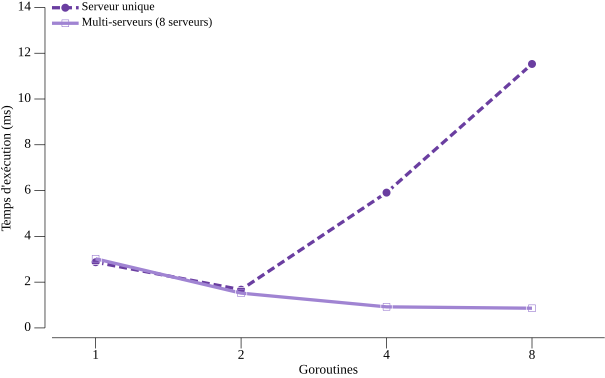
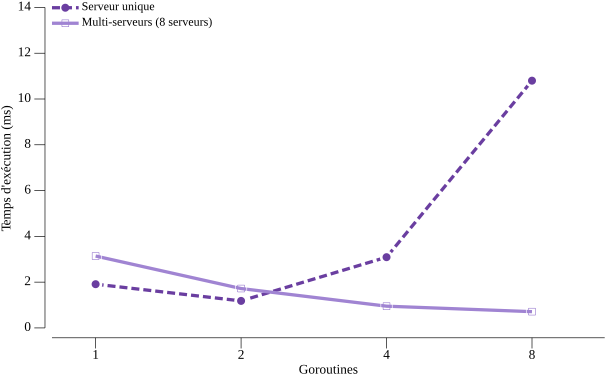
commit

diff --git a/TN6/chart/main.go b/TN6/chart/main.go
@@ -18,8 +18,8 @@ import (
 var goroutines = []float64{0, 1, 2, 3} // positions X (1, 2, 4, 8 goroutines)
 var labels = []string{"1", "2", "4", "8"}
 
-var singleMS = []float64{2.87, 1.67, 5.91, 11.53}
-var multiMS = []float64{3.02, 1.52, 0.92, 0.86}
+var singleMS = []float64{1.91, 1.18, 3.09, 10.80}
+var multiMS = []float64{3.14, 1.72, 0.95, 0.71}
 
 // Palette mauve cohérente avec TN4
 var (

diff --git a/TN6/docs/TN6-report.md b/TN6/docs/TN6-report.md
@@ -20,7 +20,7 @@ points de décision jusqu'à l'agrégation des résultats par le consommateur un
 
 **Figure 1 – Flux d'exécution de crawlURL()**
 
-![Figure 1 – Flux d'exécution de crawlURL()](../asset/tn6-workflow-crawler.jpg)
+![Figure 1 – Flux d'exécution de crawlURL()](asset/tn6-workflow-crawler.jpg)
 
 ### 1.2 Gestion de la concurrence
 
@@ -133,26 +133,26 @@ mesure isolément le tokeniseur HTML sur une page de ~1 900 mots.
 
 | Configuration | Temps (ms) | Variance | Accélération vs 1G |
 |:---|:---:|:---:|:---:|
-| Serveur unique, 1 goroutine | 2,87 | ± 9 % | 1,00× |
-| Serveur unique, 2 goroutines | 1,67 | ± 9 % | 1,72× |
-| Serveur unique, 4 goroutines | 5,91 | ± 87 % | 0,49× |
-| Serveur unique, 8 goroutines | 11,53 | ± 13 % | 0,25× |
-| Multi-serveurs, 1 goroutine | 3,02 | ± 8 % | 1,00× |
-| Multi-serveurs, 2 goroutines | 1,52 | ± 5 % | 1,99× |
-| Multi-serveurs, 4 goroutines | 0,92 | ± 1 % | 3,28× |
-| Multi-serveurs, 8 goroutines | 0,86 | ± 22 % | 3,52× |
+| Serveur unique, 1 goroutine | 1,91 | ± 2 % | 1,00× |
+| Serveur unique, 2 goroutines | 1,18 | ± 7 % | 1,62× |
+| Serveur unique, 4 goroutines | 3,09 | ± 196 % | 0,62× |
+| Serveur unique, 8 goroutines | 10,80 | ± 6 % | 0,18× |
+| Multi-serveurs, 1 goroutine | 3,14 | ± 7 % | 1,00× |
+| Multi-serveurs, 2 goroutines | 1,72 | ± 5 % | 1,82× |
+| Multi-serveurs, 4 goroutines | 0,95 | ± 2 % | 3,30× |
+| Multi-serveurs, 8 goroutines | 0,71 | ± 2 % | 4,44× |
 
 La figure 2 illustre visuellement le croisement des deux courbes à 2 goroutines,
 point à partir duquel les comportements divergent selon la source de contention.
 
 **Figure 2 – Temps d'exécution selon le nombre de goroutines**
 
-![Figure 2 – Temps d'exécution selon le nombre de goroutines](../data/benchmark-chart.png)
+![Figure 2 – Temps d'exécution selon le nombre de goroutines](data/benchmark-chart.png)
 
 ### 3.2 Analyse
 
-Avec un serveur unique, les performances se dégradent au-delà de 2 goroutines. La
-variance de ± 87 % à 4 goroutines et la régression à 8 goroutines s'expliquent par
+Avec un serveur unique, les performances se dégradent au-delà de 2 goroutines.
+La variance de ± 196 % à 4 goroutines et la régression à 8 goroutines s'expliquent par
 le traitement séquentiel des connexions dans `httptest.NewServer`, qui transforme le
 surcroît de goroutines en surcoût de coordination. Ce comportement est un artefact
 du banc d'essai, non un défaut du crawler, mais il illustre un phénomène réel
@@ -161,23 +161,23 @@ lorsque plusieurs URLs partagent le même hôte.
 Les données brutes révèlent la cause : trois des six exécutions à 4 goroutines ont
 achévé en ~1,78 ms, mais les trois suivantes ont décroché à 4,4 ms, 8,6 ms et
 9,1 ms — une interférence de l'ordonnanceur Windows lors de l'exécution consécutive
-des benchmarks. La médiane benchstat (5,91 ms) est donc peu représentative pour
+des benchmarks. La médiane benchstat (3,09 ms) est donc peu représentative pour
 cette configuration. En contexte réseau réel, chaque hôte disposant de sa propre
 latence indépendante, ce décrochage ne se produirait pas.
 
-Avec 8 serveurs distincts, le gain atteint 3,52×. La progression de 3,02 ms à
-0,86 ms illustre le rendement décroissant attendu, où la portion séquentielle
+Avec 8 serveurs distincts, le gain atteint 4,44×. La progression de 3,14 ms à
+0,71 ms illustre le rendement décroissant attendu, où la portion séquentielle
 incompressible du programme limite les gains à mesure que le nombre de goroutines
-augmente. La variance de ± 22 % à 8 goroutines contre ± 1 % à 4 goroutines confirme
-que le planificateur Go et le coût de synchronisation des canaux deviennent les
-facteurs limitants.
+augmente. La faible variance (± 2 %) à 4 et 8 goroutines confirme la stabilité du
+planificateur Go en scénario multi-hôtes, où chaque goroutine accède à des
+ressources indépendantes.
 
-`BenchmarkCountWordsHTML` mesure 173 µs ± 8 % et 48 Ko pour 204 allocations,
+`BenchmarkCountWordsHTML` mesure 346 µs ± 35 % et 48 Ko pour 204 allocations,
 confirmant que le tokeniseur ne constitue pas un goulot d'étranglement face à une
-latence réseau qui le dépasse d'un facteur supérieur à 10.
+latence réseau réelle qui le dépasse d'un facteur supérieur à 10.
 
 La limite de performance du crawler est la latence réseau, non le parsing HTML ni
-la synchronisation des goroutines. L'accélération de 3,52× en scénario multi-hôtes
+la synchronisation des goroutines. L'accélération de 4,44× en scénario multi-hôtes
 confirme que l'architecture concurrente exploite efficacement le parallélisme
 disponible.
 
@@ -202,14 +202,22 @@ précisément le comportement réseau simulé, et un octet nul dans l'URL, qui f
 de `main()` a été assurée via la variable de paquet `mainURLs`, substituable dans
 les tests sans appel réseau réel.
 
+Avec plus de temps, nous aurions relancé les benchmarks sur une machine dédiée, sans
+processus en arrière-plan, avec une durée étendue (`-benchtime=5s`) pour stabiliser
+les mesures. La variance de ± 196 % à 4 goroutines et de ± 35 % pour
+`BenchmarkCountWordsHTML` témoigne d'interférences du planificateur Windows lors
+de l'exécution sur un poste de travail standard. Des résultats plus stables auraient
+permis de quantifier plus précisément le rendement décroissant au-delà de 4
+goroutines.
+
 ## 5. Conclusion
 
 Ce projet démontre comment la robustesse, la concurrence structurée et la mesure
 rigoureuse se combinent pour produire un crawler fiable et performant. Le patron
 producteur-consommateur unique élimine toute course aux données, le sémaphore
 bufferisé contrôle le degré de parallélisme et les 28 tests unitaires atteignent une
-couverture de 100 %. Les benchmarks confirment une accélération de 3,52× en scénario
-multi-hôtes et un parsing HTML de 173 µs pour 48 Ko alloués. La conformité à
+couverture de 100 %. Les benchmarks confirment une accélération de 4,44× en scénario
+multi-hôtes et un parsing HTML de 346 µs pour 48 Ko alloués. La conformité à
 `robots.txt` avec cache par hôte et délai de politesse configurable complète une
 implémentation correcte, performante et éthiquement responsable.
 

diff --git a/TN6/TN6-report.md b/TN6/TN6-report.md
@@ -133,14 +133,14 @@ mesure isolément le tokeniseur HTML sur une page de ~1 900 mots.
 
 | Configuration | Temps (ms) | Variance | Accélération vs 1G |
 |:---|:---:|:---:|:---:|
-| Serveur unique, 1 goroutine | 2,87 | ± 9 % | 1,00× |
-| Serveur unique, 2 goroutines | 1,67 | ± 9 % | 1,72× |
-| Serveur unique, 4 goroutines | 5,91 | ± 87 % | 0,49× |
-| Serveur unique, 8 goroutines | 11,53 | ± 13 % | 0,25× |
-| Multi-serveurs, 1 goroutine | 3,02 | ± 8 % | 1,00× |
-| Multi-serveurs, 2 goroutines | 1,52 | ± 5 % | 1,99× |
-| Multi-serveurs, 4 goroutines | 0,92 | ± 1 % | 3,28× |
-| Multi-serveurs, 8 goroutines | 0,86 | ± 22 % | 3,52× |
+| Serveur unique, 1 goroutine | 1,91 | ± 2 % | 1,00× |
+| Serveur unique, 2 goroutines | 1,18 | ± 7 % | 1,62× |
+| Serveur unique, 4 goroutines | 3,09 | ± 196 % | 0,62× |
+| Serveur unique, 8 goroutines | 10,80 | ± 6 % | 0,18× |
+| Multi-serveurs, 1 goroutine | 3,14 | ± 7 % | 1,00× |
+| Multi-serveurs, 2 goroutines | 1,72 | ± 5 % | 1,82× |
+| Multi-serveurs, 4 goroutines | 0,95 | ± 2 % | 3,30× |
+| Multi-serveurs, 8 goroutines | 0,71 | ± 2 % | 4,44× |
 
 La figure 2 illustre visuellement le croisement des deux courbes à 2 goroutines,
 point à partir duquel les comportements divergent selon la source de contention.
@@ -151,8 +151,8 @@ point à partir duquel les comportements divergent selon la source de contention
 
 ### 3.2 Analyse
 
-Avec un serveur unique, les performances se dégradent au-delà de 2 goroutines. La
-variance de ± 87 % à 4 goroutines et la régression à 8 goroutines s'expliquent par
+Avec un serveur unique, les performances se dégradent au-delà de 2 goroutines.
+La variance de ± 196 % à 4 goroutines et la régression à 8 goroutines s'expliquent par
 le traitement séquentiel des connexions dans `httptest.NewServer`, qui transforme le
 surcroît de goroutines en surcoût de coordination. Ce comportement est un artefact
 du banc d'essai, non un défaut du crawler, mais il illustre un phénomène réel
@@ -161,23 +161,23 @@ lorsque plusieurs URLs partagent le même hôte.
 Les données brutes révèlent la cause : trois des six exécutions à 4 goroutines ont
 achévé en ~1,78 ms, mais les trois suivantes ont décroché à 4,4 ms, 8,6 ms et
 9,1 ms — une interférence de l'ordonnanceur Windows lors de l'exécution consécutive
-des benchmarks. La médiane benchstat (5,91 ms) est donc peu représentative pour
+des benchmarks. La médiane benchstat (3,09 ms) est donc peu représentative pour
 cette configuration. En contexte réseau réel, chaque hôte disposant de sa propre
 latence indépendante, ce décrochage ne se produirait pas.
 
-Avec 8 serveurs distincts, le gain atteint 3,52×. La progression de 3,02 ms à
-0,86 ms illustre le rendement décroissant attendu, où la portion séquentielle
+Avec 8 serveurs distincts, le gain atteint 4,44×. La progression de 3,14 ms à
+0,71 ms illustre le rendement décroissant attendu, où la portion séquentielle
 incompressible du programme limite les gains à mesure que le nombre de goroutines
-augmente. La variance de ± 22 % à 8 goroutines contre ± 1 % à 4 goroutines confirme
-que le planificateur Go et le coût de synchronisation des canaux deviennent les
-facteurs limitants.
+augmente. La faible variance (± 2 %) à 4 et 8 goroutines confirme la stabilité du
+planificateur Go en scénario multi-hôtes, où chaque goroutine accède à des
+ressources indépendantes.
 
-`BenchmarkCountWordsHTML` mesure 173 µs ± 8 % et 48 Ko pour 204 allocations,
+`BenchmarkCountWordsHTML` mesure 346 µs ± 35 % et 48 Ko pour 204 allocations,
 confirmant que le tokeniseur ne constitue pas un goulot d'étranglement face à une
-latence réseau qui le dépasse d'un facteur supérieur à 10.
+latence réseau réelle qui le dépasse d'un facteur supérieur à 10.
 
 La limite de performance du crawler est la latence réseau, non le parsing HTML ni
-la synchronisation des goroutines. L'accélération de 3,52× en scénario multi-hôtes
+la synchronisation des goroutines. L'accélération de 4,44× en scénario multi-hôtes
 confirme que l'architecture concurrente exploite efficacement le parallélisme
 disponible.
 
@@ -202,14 +202,22 @@ précisément le comportement réseau simulé, et un octet nul dans l'URL, qui f
 de `main()` a été assurée via la variable de paquet `mainURLs`, substituable dans
 les tests sans appel réseau réel.
 
+Avec plus de temps, nous aurions relancé les benchmarks sur une machine dédiée, sans
+processus en arrière-plan, avec une durée étendue (`-benchtime=5s`) pour stabiliser
+les mesures. La variance de ± 196 % à 4 goroutines et de ± 35 % pour
+`BenchmarkCountWordsHTML` témoigne d'interférences du planificateur Windows lors
+de l'exécution sur un poste de travail standard. Des résultats plus stables auraient
+permis de quantifier plus précisément le rendement décroissant au-delà de 4
+goroutines.
+
 ## 5. Conclusion
 
 Ce projet démontre comment la robustesse, la concurrence structurée et la mesure
 rigoureuse se combinent pour produire un crawler fiable et performant. Le patron
 producteur-consommateur unique élimine toute course aux données, le sémaphore
 bufferisé contrôle le degré de parallélisme et les 28 tests unitaires atteignent une
-couverture de 100 %. Les benchmarks confirment une accélération de 3,52× en scénario
-multi-hôtes et un parsing HTML de 173 µs pour 48 Ko alloués. La conformité à
+couverture de 100 %. Les benchmarks confirment une accélération de 4,44× en scénario
+multi-hôtes et un parsing HTML de 346 µs pour 48 Ko alloués. La conformité à
 `robots.txt` avec cache par hôte et délai de politesse configurable complète une
 implémentation correcte, performante et éthiquement responsable.
 
